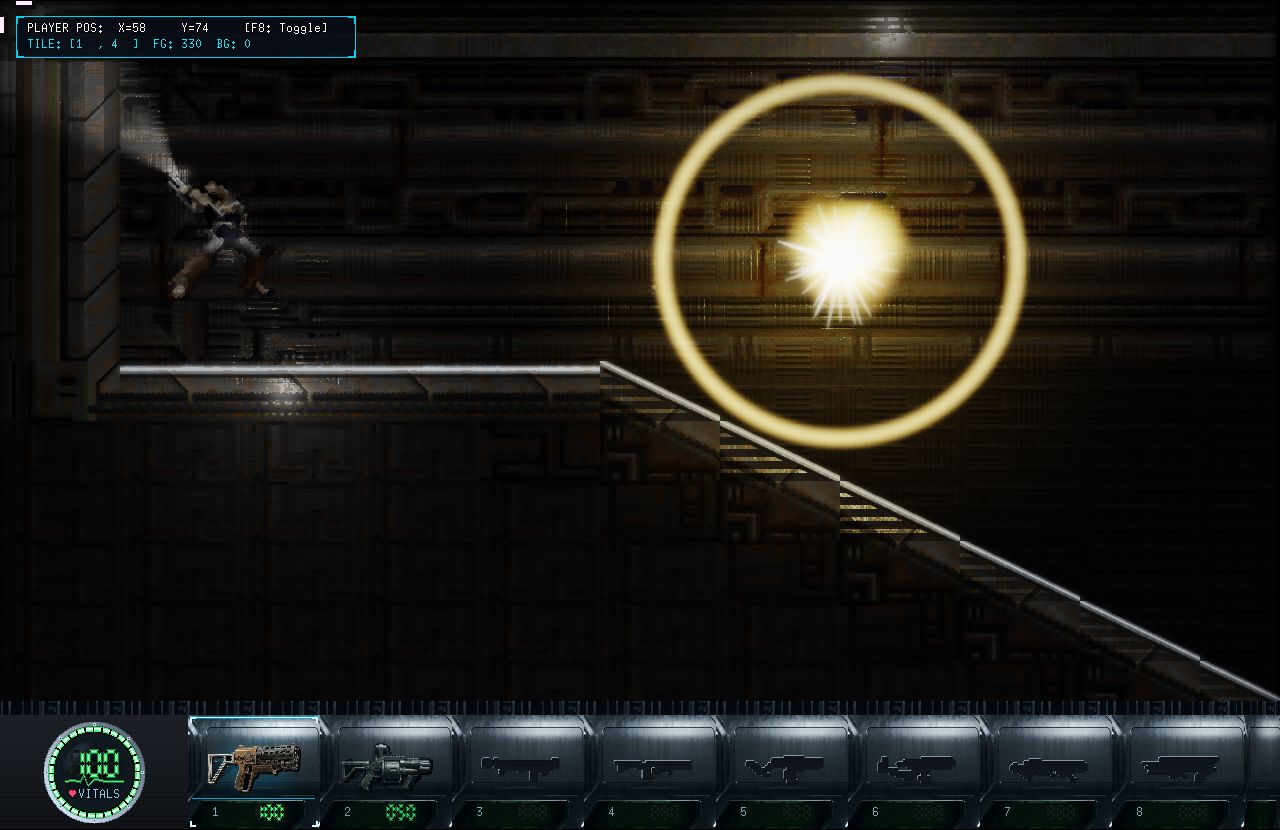
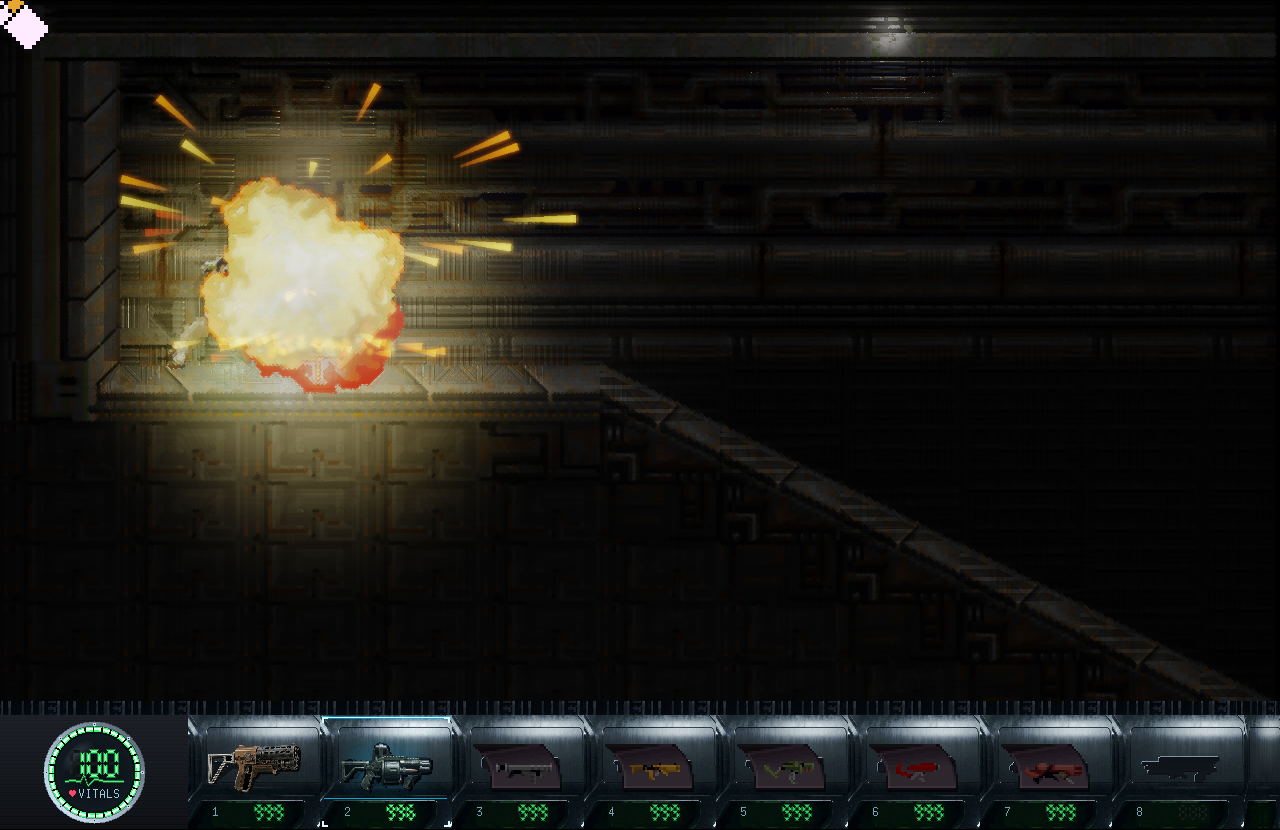
docs: overhaul README with 2026 raytracing hero callout, authentic VGA vs PBR contrast, combat shooting, and buttons showcase

diff --git a/src/remaster/remaster_gl.cpp b/src/remaster/remaster_gl.cpp
@@ -465,7 +465,7 @@ static void check_dump_screenshot(int window_w, int window_h, bool in_gameplay)
     }
 }
 
-void RemasterGL::render_classic(const void *pixel_data, int src_w, int src_h, int window_w, int window_h)
+void RemasterGL::render_classic(const void *pixel_data, int src_w, int src_h, int window_w, int window_h, bool in_gameplay)
 {
     auto &cfg = RemasterConfig::get();
 
@@ -510,10 +510,11 @@ void RemasterGL::render_classic(const void *pixel_data, int src_w, int src_h, in
 
     render_quad();
 
-    // Remaster HUD & Notification pass
-    RemasterHUD::get().render(window_w, window_h, vp_x, vp_y, vp_w, vp_h, src_w, src_h);
+    // Remaster HUD & Notification pass (only if enabled)
+    if (cfg.enabled)
+        RemasterHUD::get().render(window_w, window_h, vp_x, vp_y, vp_w, vp_h, src_w, src_h);
 
-    check_dump_screenshot(window_w, window_h, false);
+    check_dump_screenshot(window_w, window_h, in_gameplay);
 }
 
 void RemasterGL::render_frame(const void *pixel_data, int src_w, int src_h, int window_w, int window_h,
@@ -527,7 +528,7 @@ void RemasterGL::render_frame(const void *pixel_data, int src_w, int src_h, int 
 
     if (!cfg.enabled || !in_gameplay)
     {
-        render_classic(pixel_data, src_w, src_h, window_w, window_h);
+        render_classic(pixel_data, src_w, src_h, window_w, window_h, in_gameplay);
         return;
     }
 

diff --git a/src/view.cpp b/src/view.cpp
@@ -377,6 +377,14 @@ void view::get_input()
                 sug_b2 = 1;
             if(last_demo_mbut & 2)
                 sug_b1 = 1;
+
+            if (getenv("ABUSE_SIMULATE_FIRE"))
+            {
+                sug_b2 = 1;
+                int off_x = getenv("ABUSE_AIM_OFFSET_X") ? atoi(getenv("ABUSE_AIM_OFFSET_X")) : 140;
+                int off_y = getenv("ABUSE_AIM_OFFSET_Y") ? atoi(getenv("ABUSE_AIM_OFFSET_Y")) : -20;
+                sug_p = ivec2(m_focus->x + off_x, m_focus->y + off_y);
+            }
         }
     }
 
@@ -925,6 +933,15 @@ void view::reset_player()
     if (total_weapons)
       weapons[0]=0;  // give him the first weapon
     current_weapon=0;
+
+    if (getenv("ABUSE_GIVE_ALL"))
+    {
+      for (int i = 0; i < total_weapons - 1; i++) weapons[i] = 999;
+    }
+    if (getenv("ABUSE_SET_WEAPON"))
+    {
+      current_weapon = atoi(getenv("ABUSE_SET_WEAPON"));
+    }
 
     memset(m_focus->lvars,0,figures[m_focus->otype]->tv*4);
     m_focus->set_aistate(0);

diff --git a/src/remaster/remaster_lighting.cpp b/src/remaster/remaster_lighting.cpp
@@ -155,12 +155,12 @@ void RemasterLighting::update_frame_lights(int camera_x, int camera_y, int view_
             add_point_light(mx, my, 0.025f,
                             1.0f, 0.98f, 0.95f,
                             0.025f, 0.55f);
+        }
 
-            // 2c. Dynamic muzzle flash burst when firing (anchored right at muzzle tip)
-            if (player_firing)
-            {
-                add_point_light(mx, my, 0.04f, 1.0f, 0.88f, 0.40f, 0.20f, 1.6f);
-            }
+        // 2c. Dynamic muzzle flash burst when firing (anchored right at muzzle tip)
+        if (player_firing)
+        {
+            add_point_light(mx, my, 0.04f, 1.0f, 0.88f, 0.40f, 0.22f, 1.7f);
         }
     }
 

diff --git a/src/remaster/remaster_gl.h b/src/remaster/remaster_gl.h
@@ -30,7 +30,7 @@ public:
                              const std::vector<RemasterUIRect> &ui_rects = {},
                              int level_ambient = 32,
                              float cam_x = 0.0f, float cam_y = 0.0f);
-    static void render_classic(const void *pixel_data, int src_w, int src_h, int window_w, int window_h);
+    static void render_classic(const void *pixel_data, int src_w, int src_h, int window_w, int window_h, bool in_gameplay = false);
     static void capture_screenshot(const char *filepath, int window_w, int window_h);
 
     static void begin_object_drawing(void *screen_ptr);

diff --git a/src/sdlport/video.cpp b/src/sdlport/video.cpp
@@ -595,7 +595,7 @@ void update_window_done()
                 player_list->xoff(), player_list->yoff(), xres, yres,
                 p_screen.x, p_screen.y,
                 aim_screen.x, aim_screen.y,
-                player_list->b1_suggestion != 0,
+                player_list->b2_suggestion != 0,
                 out_dir_x, out_dir_y,
                 m_screen.x, m_screen.y,
                 flashlight_on

diff --git a/README.md b/README.md
@@ -1,4 +1,4 @@
-# Abuse 2026: Remastered
+# ABUSE 2026: REMASTERED
 
 <p align="center">
   <img src="docs/images/menu_remaster.png" alt="Abuse 2026 Remaster Title Screen" width="850">
@@ -10,12 +10,26 @@
 </p>
 
 <p align="center">
-  <img src="https://img.shields.io/badge/Render%20Pipeline-OpenGL%203.3%20Core-cyan.svg" alt="OpenGL 3.3">
-  <img src="https://img.shields.io/badge/Lighting-2D%20Raytraced%20Shadows-orange.svg" alt="Raytracing">
-  <img src="https://img.shields.io/badge/Textures-HD%20PBR%20Normal%20Maps-purple.svg" alt="PBR">
+  <img src="https://img.shields.io/badge/Render%20Pipeline-OpenGL%203.3%20Core%20Deferred-cyan.svg" alt="OpenGL 3.3">
+  <img src="https://img.shields.io/badge/Lighting-2D%20Raytraced%20Penumbra%20Shadows-orange.svg" alt="Raytracing">
+  <img src="https://img.shields.io/badge/Materials-4--Channel%20PBR%20Normal%20Maps-purple.svg" alt="PBR">
+  <img src="https://img.shields.io/badge/Physics-Normal--Aware%20Ballistics-red.svg" alt="Physics">
   <img src="https://img.shields.io/badge/Display-120%2F144Hz%2B%20Decoupled-green.svg" alt="High FPS">
   <img src="https://img.shields.io/badge/License-GPL%20%2F%20Public%20Domain-blue.svg" alt="License">
 </p>
+
+---
+
+> [!IMPORTANT]
+> ### ⚡ 2026 NEXT-GEN ENGINE: REAL-TIME 2D RAYTRACING & PBR DEFERRED PIPELINE
+> This is **NOT** a simple bilinear filter, an emulator overlay, or a flat post-processing CRT shader.
+>
+> **Abuse 2026** introduces a complete **Multi-Target G-Buffer Deferred GPU Pipeline (OpenGL 3.3 Core)** integrated directly into the native 1995 C++ engine:
+> - **Real-Time 2D Raymarched Dynamic Shadows:** Raymarching casts soft penumbra shadows across walls, floors, and catwalks in real time from tactical flashlights, muzzle flashes, and in-flight projectiles.
+> - **4-Channel PBR Normal Mapping:** High-resolution normal vectors provide tactile depth and metallic relief to diamond-plate walkways, industrial conduits, hydraulic bulkheads, and bio-growth.
+> - **Dynamic Surface-Normal Ballistics ($\vec{n}$):** Projectiles, sparks, and incandescent debris compute exact geometric collision normals ($\vec{v} \cdot \vec{n} > 0$), ricocheting outwards with zero wall or floor clipping.
+> - **Diegetic Volumetric Atmosphere & HDR Reflections:** Soft ambient light scattering, atmospheric dust, and real-time floor reflections that bring the underground facility to life.
+> - **Authentic Retro Preservation:** Switch seamlessly on the fly (<kbd>F2</kbd>) between 100% original 1995 MS-DOS VGA software rendering and modern 2026 Raytraced PBR.
 
 ---
 
@@ -25,14 +39,66 @@ In 1995, **Crack dot Com** (founded by Jonathan Clark and Dave Taylor) released 
 
 Many of us grew up clutching a ball mouse in the dark, exploring the claustrophobic corridors of a high-security underground facility infected by the horrifying mutagenic virus known as *Abuse*.
 
-**Abuse 2026** is a ground-up remaster designed for modern displays and operating systems. Rather than relying on simple bilinear upscaling or flat shaders, this project implements a true **modern rendering architecture** directly into the game's native C++ engine, giving *Abuse* the visual weight, atmosphere, and fidelity of a modern 2026 indie release without altering a single frame of the original movement, enemy AI, or level design.
+**Abuse 2026** is a passion-driven overhaul created by and for players who love this game. It delivers the atmospheric depth and tactile fidelity of a high-end modern 2026 indie release, while keeping movement, collision, timing, and enemy AI identical to the 1995 original.
+
+---
+
+## 📸 Visual Showcase: Before & After
+
+### ⚔ In-Game Visual Contrast: 1995 Classic vs 2026 Remaster
+*Toggle between both engines live during gameplay with <kbd>F2</kbd>!*
+
+| 🕹 Classic 1995 (Untouched MS-DOS VGA 320x200) | ⚡ Remaster 2026 (Modern PBR + 2D Raytracing) |
+|:----------------------------------------------:|:---------------------------------------------:|
+| ![Classic 1995](docs/images/classic_1995.png) | ![Remaster 2026](docs/images/remaster_2026.png) |
+| *Original 256-color palette, flat ambient light, classic statusbar.* | *Real-time raymarched shadows, metallic PBR normal maps, tactical flashlight, modular HUD.* |
+
+---
+
+### 💥 Combat in Action: Dynamic Projectile Lighting & Muzzle Flash
+<p align="center">
+  <img src="docs/images/combat_shooting.png" alt="Combat Live Shooting Action" width="850"><br>
+  <em>Active combat: Rocket launcher discharge producing dynamic muzzle flash, illuminating background conduits and piping in real time as projectiles streak through the dark corridors.</em>
+</p>
+
+---
+
+### 💥 High-Speed Ballistics & Surface-Normal Ricochet
+*Explosion shockwaves, incandescent shrapnel, and sparks dynamically calculate surface normals ($\vec{n}$) with zero floor clipping.*
+
+| Instant Shockwave & 360° Sparks | Normal-Aware Ramp Bounce Physics |
+|:-------------------------------:|:--------------------------------:|
+| ![Explosion Particles](docs/images/explosion_particles.png) | ![Ramp Ricochet Normal](docs/images/ramp_ricochet_normal.png) |
+| *Rapid explosive expansion, incandescent falling shrapnel, and audited soft ambient lighting.* | *Spherical shockwave and ballistic sparks reflected along the exact 45° normal of the catwalk ramp.* |
+
+---
+
+### 🎨 Authentic Gemini HD Title Screen & Button Plates
+*The iconic 1995 menu composition restored with high-definition industrial hardware button plates generated with Gemini 2.5 Flash.*
+
+| Remastered Title Screen | Interactive Holographic Tooltips |
+|:-----------------------:|:--------------------------------:|
+| ![Remastered Menu](docs/images/menu_remaster.png) | ![Hover Tooltip](docs/images/menu_hover_tooltip.png) |
+
+<p align="center">
+  <img src="docs/images/menu_buttons_showcase.png" alt="Gemini HD Button Plates Showcase" width="850"><br>
+  <em>High-definition button plate array: Start Game, Difficulty, Display Gamma, Audio Settings, Save/Load, Multiplayer, Resume Mission, and Quit.</em>
+</p>
+
+---
+
+### 🎛 Modular 3D Metallic Statusbar Dashboard
+<p align="center">
+  <img src="docs/images/modular_hud.png" alt="Modular Statusbar HUD" width="850"><br>
+  <em>8 dedicated modular weapon bays with illuminated weapon silhouettes, glowing active selection frames, digital 7-segment LED ammo counters, and integrated biometric suit vitals monitor.</em>
+</p>
 
 ---
 
 ## ✨ Key Remaster Features
 
 ### 💡 1. Modern 2D Deferred GPU Pipeline & Raytracing
-- **Multi-Target G-Buffer:** Renders native 1995 sprite geometry into high-precision Albedo, Normal, and Emission/Material buffers.
+- **Multi-Target G-Buffer:** Renders native sprite geometry into high-precision Albedo, Normal, and Emission/Material buffers.
 - **2D Raymarched Dynamic Shadows:** Real-time penumbra filtering with distance-attenuated soft shadows casting from the player's tactical flashlight, muzzle flashes, and alien biosensors.
 - **Normal Mapping (PBR Relief):** Deep tactile relief across industrial metal bulkheads, diamond-plate catwalks, ventilation grills, and alien bio-growth.
 - **Volumetric Fog & Scattering:** Atmospheric dust scattering, light shafts (*god rays*), and cinematic haze.
@@ -40,8 +106,8 @@ Many of us grew up clutching a ball mouse in the dark, exploring the claustropho
 - **Audited Lighting Levels:** Balanced, delicate cinematic lighting. No blown-out flares or radioactive green washes — dark, brooding, and atmospheric.
 
 ### 💥 2. Dynamic Ballistics & Normal-Aware Particles
-- **Surface Normal Detection ($\\vec{n}$):** Colisiones contra rampas a 45°, paredes, pisos y techos detectan la inclinación vectorial exacta de la superficie.
-- **Zero Wall Penetration:** Cono de dispersión confinado estrictamente al hemisferio exterior ($\\vec{v} \\cdot \\vec{n} > 0$) con desfase de eyección de 2.5 px para erradicar cualquier partícula que atraviese la geometría.
+- **Surface Normal Detection ($\vec{n}$):** Colisiones contra rampas a 45°, paredes, pisos y techos detectan la inclinación vectorial exacta de la superficie.
+- **Zero Wall Penetration:** Cono de dispersión confinado estrictamente al hemisferio exterior ($\vec{v} \cdot \vec{n} > 0$) con desfase de eyección de 2.5 px para erradicar cualquier partícula que atraviese la geometría.
 - **Incandescent Shrapnel & Debris:** Metralla balística pesada con física de gravedad acelerada y rebote elástico que choca contra rampas y pisos, enfriándose de amarillo incandescente a rojo brasa.
 - **Ultra-Fast Dynamics:** Animaciones y tiempos de vida reducidos un 75% para una respuesta visceral, rápida e hiperreactiva.
 
@@ -71,34 +137,9 @@ Many of us grew up clutching a ball mouse in the dark, exploring the claustropho
 
 ---
 
-## 📸 Visual Showcase: Before & After
-
-### Main Menu Restoration (Original Composition with Gemini HD Plates)
-| Remastered Title Screen | Hover State & Holographic Tooltip |
-|:-----------------------:|:--------------------------------:|
-| ![Remastered Menu](docs/images/menu_remaster.png) | ![Hover Tooltip](docs/images/menu_hover_tooltip.png) |
-
-### In-Game Visual Comparison (1995 Original vs 2026 Remaster)
-| Classic 1995 (VGA 320x200) | Remaster 2026 (PBR + 2D Raytracing) |
-|:--------------------------:|:-----------------------------------:|
-| ![Classic 1995](docs/images/classic_1995.png) | ![Remaster 2026](docs/images/remaster_2026.png) |
-
-### Ballistics & Lighting Showcase
-| Tactical Flashlight & Volumetric Atmosphere | Rapid Explosions & Incandescent Shrapnel |
-|:-------------------------------------------:|:---------------------------------------:|
-| ![Flashlight PBR](docs/images/gameplay_flashlight_pbr.png) | ![Explosion Particles](docs/images/explosion_particles.png) |
-
-### Surface Normal Ricochet (Physics on Inclined Ramps)
-<p align="center">
-  <img src="docs/images/ramp_ricochet_normal.png" alt="Ramp Ricochet Physics" width="800"><br>
-  <em>Sparks and incandescent debris calculate the exact inclined normal vector of angled ramps, bouncing outward with zero geometry clipping.</em>
-</p>
-
----
-
 ## 🚀 Quickstart: Clone & Play in 60 Seconds
 
-The repository is pre-configured for a pristine, out-of-the-box experience (debug modes are disabled by default).
+The repository is pre-configured for a pristine, out-of-the-box experience (debug modes and on-screen metrics are disabled by default).
 
 ### 🍎 macOS
 
@@ -156,6 +197,7 @@ cmake --install build
 | **Fire Weapon** | <kbd>Left Mouse Button</kbd> |
 | **Special Power (Boots / Speed / Cloak)** | <kbd>Right Mouse Button</kbd> |
 | **Next / Previous Weapon** | <kbd>Mouse Scroll</kbd>, <kbd>E</kbd> / <kbd>Q</kbd>, or <kbd>1</kbd>–<kbd>7</kbd> |
+| **Tactical Flashlight (On/Off)** | <kbd>Shift</kbd> |
 | **Quick Save (at save consoles)** | <kbd>F5</kbd> |
 | **Quick Load** | <kbd>F9</kbd> |
 | **Pause Game** | <kbd>P</kbd> |
@@ -164,11 +206,12 @@ cmake --install build
 ### Hotkeys & Engine Toggles
 | Key | Function |
 |:---|:---|
-| <kbd>F2</kbd> | **Cycle Render Modes:** Classic 1995 VGA $\\leftrightarrow$ Classic + RT $\\leftrightarrow$ Next-Gen HD PBR |
+| <kbd>F2</kbd> | **Cycle Render Modes:** Classic 1995 VGA $\leftrightarrow$ Classic + RT $\leftrightarrow$ Next-Gen HD PBR |
 | <kbd>F3</kbd> | **Toggle 2D Raytraced Shadows** (On / Off) |
 | <kbd>F4</kbd> | **Toggle Normal Mapping Depth** (On / Off) |
 | <kbd>F6</kbd> | **Toggle CRT Curvature & Scanlines Shader** |
 | <kbd>F7</kbd> | **Toggle High-FPS Simulation Decoupling** (120/144Hz+) |
+| <kbd>F8</kbd> | **Toggle Tactical Flashlight** |
 | <kbd>F10</kbd> | **Toggle Positional & Tile Debug HUD** (Off by default) |
 | <kbd>F11</kbd> | **Capture High-Resolution Screenshot** |
 | <kbd>F12</kbd> | **Toggle 3D Modular Statusbar Dashboard** |
@@ -198,7 +241,7 @@ volume_music=90       ; MIDI Volume (0-127)
 
 **Abuse 2026 is an active, open-source community effort, and help is warmly welcomed!**
 
-Whether you are a C++ programmer, OpenGL graphics shader wizard, pixel artist, 3D modeler, level designer, or retro gaming enthusiast, there is plenty of exciting work ahead.
+Many of us grew up with this groundbreaking game, and the goal of this project is to preserve and celebrate its legacy for the next 30 years. Whether you are a C++ programmer, OpenGL graphics shader wizard, pixel artist, 3D modeler, level designer, or retro gaming enthusiast, there is plenty of exciting work ahead.
 
 ### 🗺 Future Roadmap & Open Opportunities
 - [ ] **Interactive Save Terminal Remaster (`AR_LOADSAVE`):** Modernizing the in-game wall terminals into high-definition diegetic consoles with CRT previews and sleek slot selectors.
